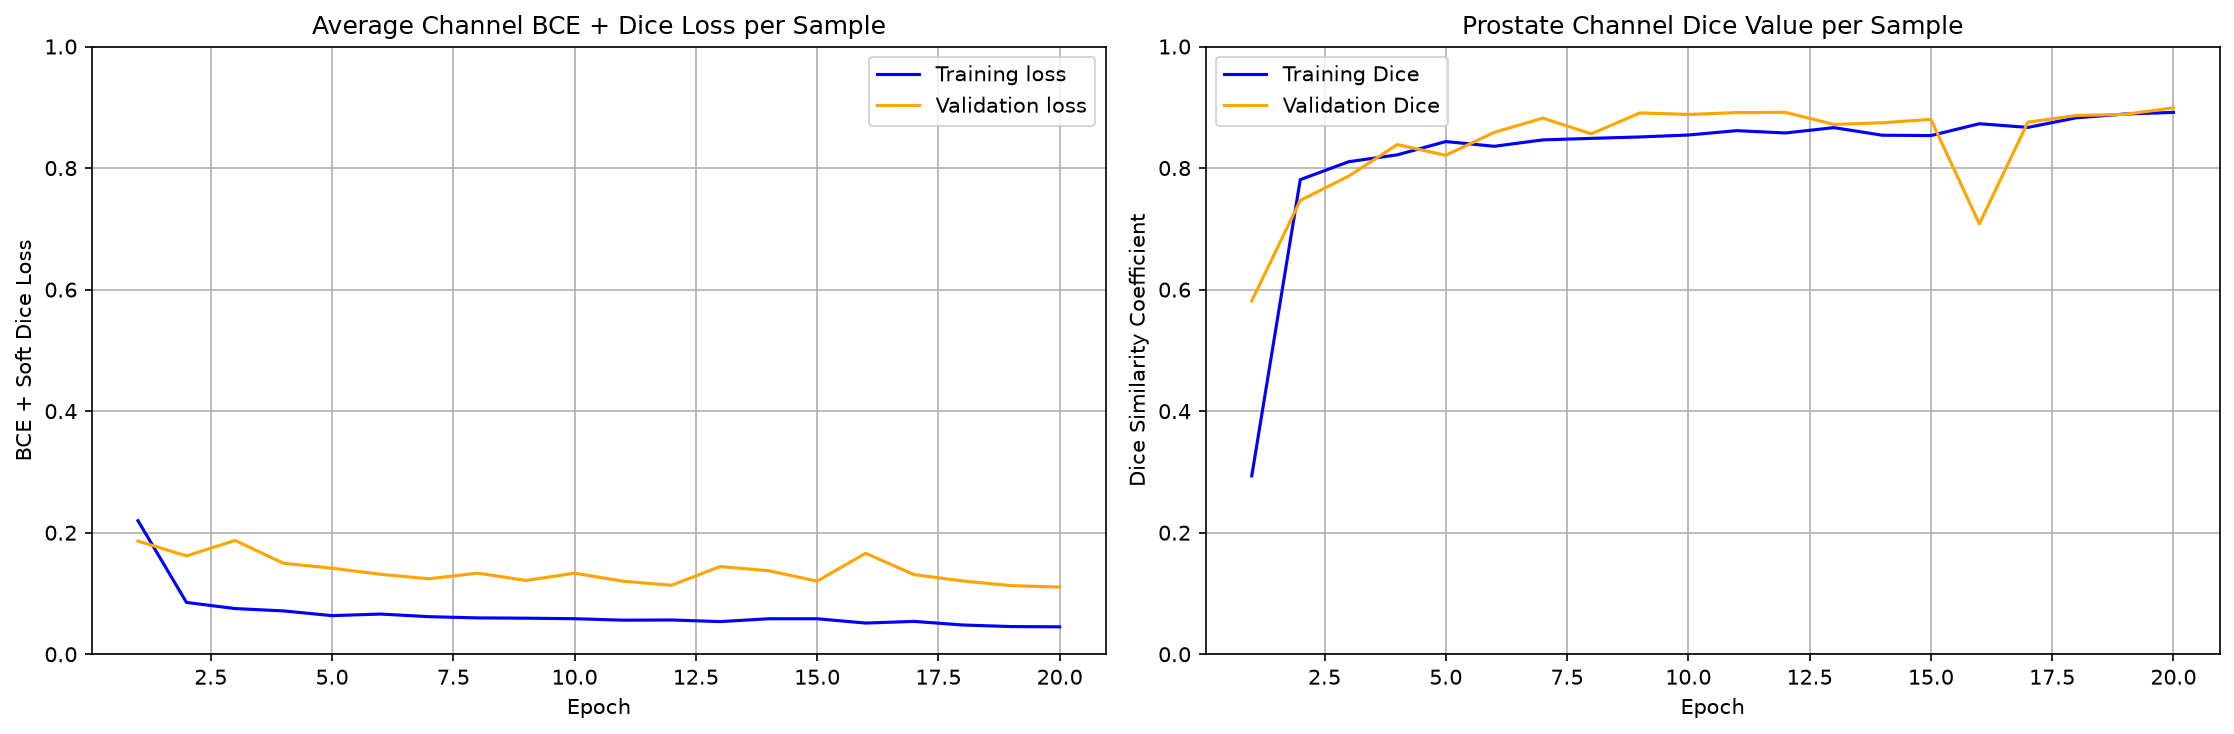
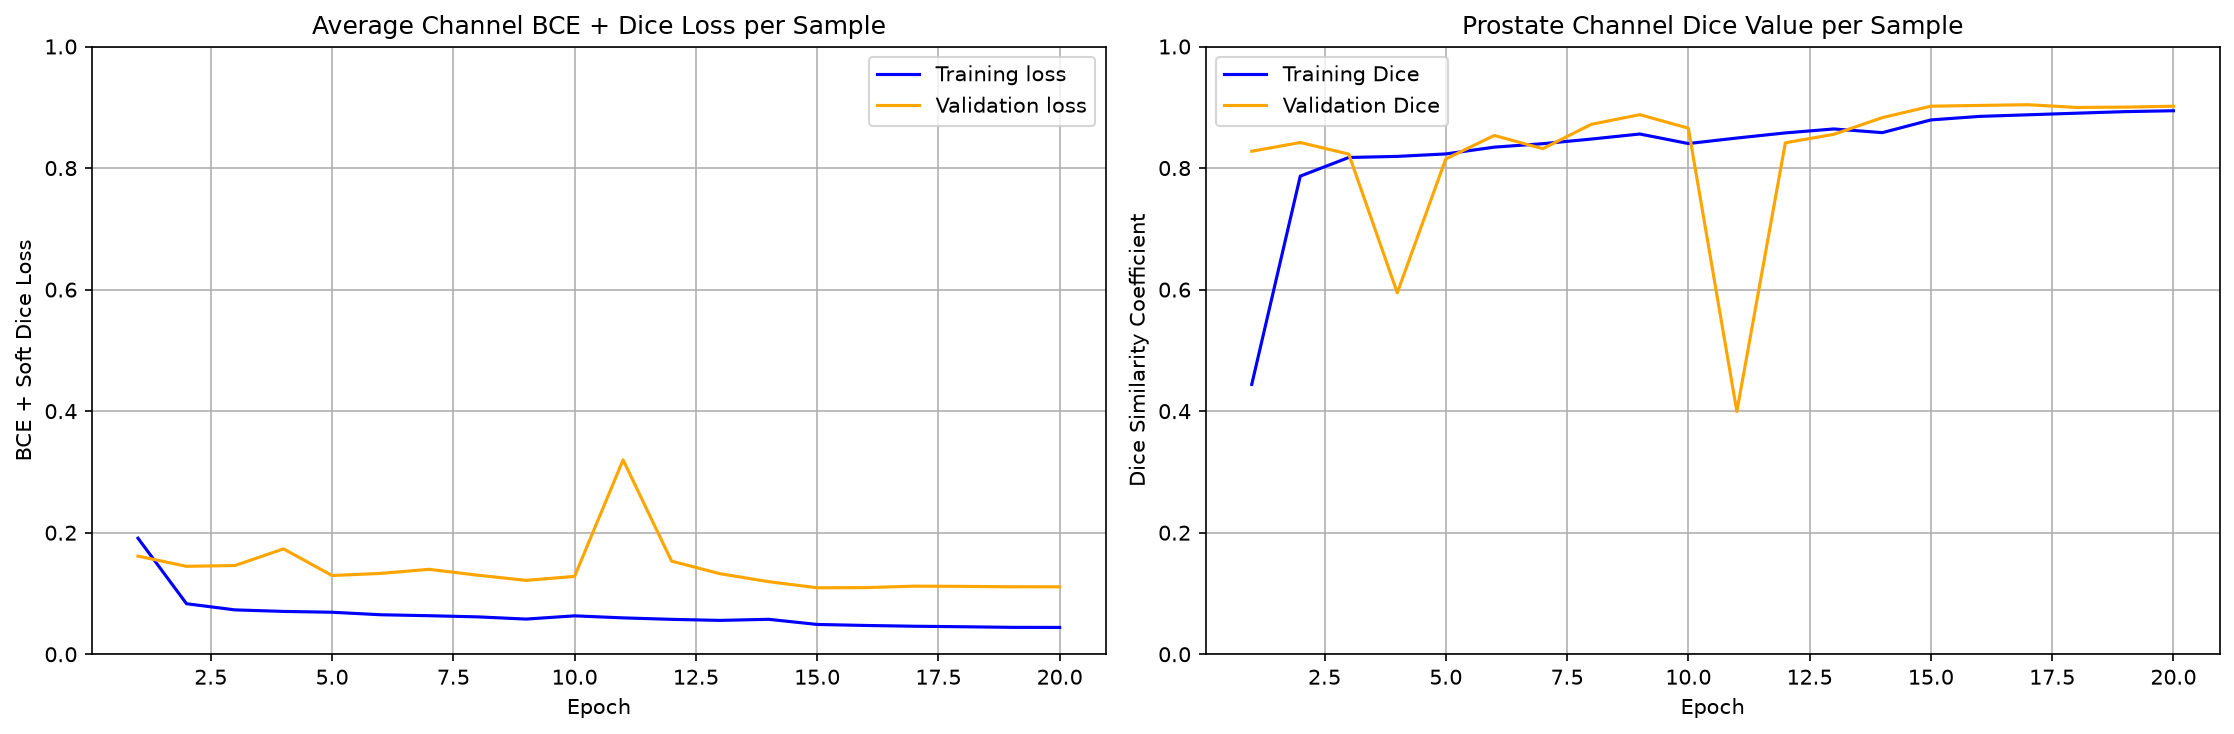
Complete README and track related figures

diff --git a/recognition/UNet_s48831653/README.md b/recognition/UNet_s48831653/README.md
@@ -4,7 +4,9 @@ Data were provided by HipMRI Study for image segmentation - https://arxiv.org/ab
 ## Overview of the Model
 A 2D U-Net and 2D convolutional aggregate network (CAN) have been implemented to aid in the segmentation of the prostate in HipMRI scans for the purpose of targeted radiation therapy. Due to the risks associated with both under- and over-contouring, it is of interest to compare the prostate segmentation accuracy and the resource requirements of both models to determine which is more appropriate for clinical use.
 
-**todo** description of file structure and how to run
+The models can be trained by running train_and_validate(UNet, num_epochs) in train.py, inputting boolean variable 'UNet' to select which model. The model's time, Dice, Intersection Over Union, peak VRAM and number of parameters are reported. A training vs validation loss plot will be saved under "2Dmodel_loss_plot.png", and the optimal model will be saved under "best_2Dmodel.pth" where 'model' is either Unet or CAN.
+
+The models can be tested by running predict(UNet) in predict.py, inputting boolean variable 'UNet' to select which model. All samples in the test set will be evaluated with the optimal model and save the image results in 'model_predictions' as 'model_i.png' where 'model' is either Unet or CAN, and i is the id assigned to the sample. The average Dice and Intersection Over Union values are reported for each channel, and the average evaluation time, peak VRAM.
 
 ### 2D U-Net Explanation and Justification of Structure:
 The 2D U-Net consists of an encoder and decoder, each with 4 convolution blocks. The convolution block contains 2 3x3 convolutions, the first to alter the number of channels, and the second to refine feature extraction. BatchNorm is used after each convolution since the data is dense and processed in batches of 16. As each sample is normalised, convolutions are performed without bias to prevent creations of redundant variables. ReLU is performed in place after each normalisation to reduce memory consumption. For convolution blocks with high out_channel>512, dropout=0.2 is set to reduce overfitting during training.
@@ -13,21 +15,16 @@ Each encoder block is followed by maxPool, reducing the height and width dimensi
 
 The 4 decoder blocks perform a transpose convolution, expanding the sample's height and width by 2, before concatenating the equivalent sample from the encoder leve. This is followed by the convolution block, halving the number of channels. A final 1x1 convolution is performed so that the output has the same number of channels as there are segmentation categories.
 
-**U-Net Model Structure:**
+**2D U-Net Model Structure:**
+
 ![alt text](Figures/UNet.png)
 
 ### 2D CAN Explanation and Justification of Structure:
-The 2D CAN initially performed two 3x3 convolutions to expand the channel size. This is followed by eight dilated convolutions with increasing dilation rates (1, 1, 2, 2, 3, 5, 8, 16), 
+The 2D CAN initially performs two convolution blocks to expand the channel size of all samples in the batch. These blocks are a convolution with kernel_size=3 followed by an instanceNorm to allow for smaller batch sizes if necessary, and then performs a leakyReLU. These convolutions are followed by nine dilated convolution blocks with increasing dilation rates (1, 1, 2, 2, 3, 5, 8, 16, 1). These are similarly constructed to the aforementioned block, however the padding and dilation are defined by the provided dilation variable, to maintain sample dimensions. The initial convolutions, with small dilation factor extract finer details, in the same way as performed in the 2D U-Net. The larger dilations that these are followed by increase the network's field of view, allowing greater context of the image for the model's predictions, while maintaining the sample's dimensions. A final dilation with factor 1 is performed to reintroduce the finer details of the image. Before outputting the results, two convolution blocks are applied, decreasing the channel size to 5, such that each channel contains the model's segmentation predictions.
 
+**2D CAN Model Structure:**
 
-- initial convolution to expand channels to 64
-- dilate convolution uses instance norm to allow smaller batch sizes if necessar, and leaky relu due to sparse data from dilation
-- dilations (1, 1, 2, 2, 3, 5, 8, 16) used to extract a some overall features and focus on the finer details since the prostate is a small component of the HipMRI samples
-- 3x3 conv performed to smooth results and final 1x1 convolution to output with required number of channels as number of categories
-
-
-**todo description of algorithm**
-**todo diagram**
+![alt text](Figures/CAN.png)
 
 ## Dependencies
 This repository was trained and evaluated on the Rangpur HPC cluster with the following dependencies:
@@ -41,9 +38,6 @@ This repository was trained and evaluated on the Rangpur HPC cluster with the fo
 
 The results discussed in this report were produced without setting seed. If desired, the seeds for python, numpy and torch can be set for reproducible results.
 
-## Example inputs, outputs, and visual plots of your algorithm
-**todo**
-
 ## Data Preprocessing
 To prevent data-leakage, all MRI slices belonging to the same patient are strictly assigned to the same data split, as misleading results would be produced if the same anatomy were present across sets. Specifically, training was performed on slices from patients 4 to 35, validation on patients 36 to 39, and testing on patients 40-42.
 
@@ -51,17 +45,17 @@ All MRI image data was normalised upon loading as specified in the project guide
 
 In the construction of PyTorch DataLoaders for this data, the training DataLoader set drop_last=True where the validation and testing loaders didn't to ensure consistent batch sizes for stable normalisation and to avoid overweighting of samples in a smaller batch size. Additionally, the training dataset was assigned a custom TorchVision transformation that included random vertical flipping, slight rotation, and slight scaling with RandomAffine, to reduce overfitting of the data, by training on plausible anatomical variations.
 
+## Training And Validation Process Justification and Results
+Training and Validation is executed with train_and_validate() from train.py, with model type specified by UNet boolean variable. Training is performed with the Adam optimised with weight decay=0.0001 and a ReduceLROnPlateau scheduler with patience=4 and factor=0.1, to reduce overfitting. The loss used for optimisation is a combination of Binary Cross Entropy, weighted at 0.3, and the average per channel dice loss, calculated using the model's probability output. Conversely, validation determines the dice loss and Intersection over Union for each channel, using the binary mask corresponding to the highest predicted channels. These are reported for each epoch, where the model is only saved if the prostate channel's validation dice increases.
 
+Upon completion of all epochs, general performance values are reported. These are displayed below. Additionally, each training and validation epoch records their respective prostate channel loss per sample and average combined BCE and dice loss per channel per sample, which are graphed against epochs. These are also presented below, for each model.
 
-## Training And Validation
-**todo** justify training+validation process
-
-|                                                   | 2D U-Net | 2D CAN |
+|**Training and Validation Performance Results**    | 2D U-Net | 2D CAN |
 | -------- | -------- | -------- |
 | Total Number of Trainable Parmeters               | 31,036,741 | 406,405  |
-| Peak Training/Validation GPU VRAM (GB)            | 3.1845     | 3.5261   |
-| Average Training/Validation Epoch Duration (s)    | 47.284     | 49.729s  |
-| Saved Model's Validation Prostate Dice            | 0.899072   | 0.906043 |
+| Peak Training/Validation GPU VRAM (GB)            | 3.2254     | 3.5261   |
+| Average Training/Validation Epoch Duration (s)    | 47.684     | 49.729s  |
+| Saved Model's Validation Prostate Dice            | 0.904217   | 0.906043 |
 
 ### Training and Validation Loss and Prostate Segmentation Dice per Epoch
 **2D UNet:**
@@ -71,23 +65,73 @@ In the construction of PyTorch DataLoaders for this data, the training DataLoade
 ![alt text](Figures/2DCAN_loss_plot.png)
 
 ## Testing Results
-|                                          | 2D U-Net | 2D CAN |
+Testing involves the evaluation of the model's prediction for each sample. These are saved to a directory corresponding to the model used, and each plot the original MRI image, the ground truth segmentation, the model's predicted segmentation and an error map. The error map compares the ground truth and the predicted segmentations for the prostate class, with true positive results in green, false positives in red and false negatives in blue. The dice and IoU values calculated from the error map for the sample, are reported in the image. An example is given below. After the evaluation of all samples, the model's performance is reported, also provided below.
+
+**Example prediction output image:**
+
+Mask Colour Key: *Prostate=Red, Body Outline/Rectum=Black, Bladder=Teal, Bone=Brown, Body=Green*
+
+Error Map Colour Key: *True Positive = Green, False Positive = Red, False Negative = Blue*
+![alt text](Figures/prediction_image_example.png)
+
+|**Testing Performance Results**           | 2D U-Net | 2D CAN |
 | -------- | -------- | -------- |
 | Peak Testing GPU VRAM (GB)               | 1.1256     | 0.4079   |
-| Average Sample Evaluation Duration (s)   | 0.402137   | 0.397704 |
-| Average Testing Dice                     | 0.882169   | 0.878068 |
-
-**todo**: prediction format, location, justification
+| Average Sample Evaluation Duration (s)   | 0.370087   | 0.367726 |
+| Average Testing Dice                     | 0.874180   | 0.878067 |
 
 ## Discussion of Results
-**todo**
-- data points are all comparable except CAN has significantly less trainable parameters and produces the same results
-- CAN has more stable dice value during training Unet has significant variations betwene training and validation dice
-- only requires 5 epochs versus unet validation loss stabilises at 18 even though training stabilised after 3
+The performance results outlined above, show comparable prostate channel dice scores during validation and testing, with a slightly larger decrease in the 2D U-Net's performance at testing. Similarly, the training times are comparable, with the U-Net being slightly faster to train and slower to evaluate.
 
-- in depth qualitative error autopsies analysing 3-5 representative failure cases from the dataset (diagnosing root triggers + failure modes)
-- actionable engineering recommendation + trade off synthesis for your project manager
+The greatest difference in the models is the number of trainable parameters, which is significantly larger for the U-Net in comparison to the CAN. This likely contributes to the approximately tripled GPU VRAM peak observed during testing. Additionally, observation of the loss plots, suggests the CAN provides stabler training, in comparison to the U-Net. Specifically, the CAN appears to stabilise after epoch 4 with stable and approximately equal Dice scores. The U-Net validation loss stablises after 15 epochs, and has significant variation in prostate channel dice in comparison to the CAN plot.
 
+Upon inspection of the prediction results, transitions between neighbouring slices produced by the CAN are notably smoother compared to the UNet model. Regardless, both models were observed to have the following common failure cases:
+
+### 1. Small prostate false negatives:
+Often occurs in the MRI slices where the prostate initially appears or where a new prostate segment appears separate from a pre-existing section, that combine in a later sample. Due to the small area of these segments, both the 2D U-Net and 2D CAN models, will produce false negatives. This is likely due to the similarities with neighbouring samples with almost identical anatomical structure but with no prostate segmentations. Additionally, these small prostate segmentation cases may only be reflected in the initial 2-3 slices from a scan, where the more general prostate segmentation case would have 10-15 slices to train with, and so, the model is less familiar with predicting small prostate segments. Examples of these false negative predictions are given below, where the false negative segmentations are blue in the error map.
+
+**Example false negative prediction of an initial small prostate segmentations:**
+
+![alt text](Figures/ex_FN_initial_segment.png)
+
+**Example false negative prediction of new small prostate segmentations:**
+
+![alt text](Figures/ex_FN_new_segment.png)
+
+### 2. Small prostate false positives:
+Similarly to failure case 1, this will occur in MRI slices where the prostate is expected to initially appear, or new segments usually appear. This occurs in both the 2D U-Net and 2D CAN models, where the model will predict a small new prostate segment that is not present in the sample. This is likely due to the same reasons as described in failure case 1 above. Examples of these false positive predictions are given below, where the false positive segmentations are red in the error map.
+
+**Example false positive prediction of new small prostate segmentations:**
+
+![alt text](Figures/ex_FP_initial_segment.png)
+
+**Example false positive prediction of new small prostate segmentations:**
+
+![alt text](Figures/ex_FP_new_segment.png)
+
+### 3. False negatives at neighbouring rectum segmentations
+Both the 2D U-Net and 2D CAN will predict false negatives in slices where the rectum segmentation is vanishing and the prostate segmentation appears. This likely occurs as the prostate and rectum segmentations are often in the same position with similar shape, or are closely neighbouring each other. Hence, both convolution models will associate the same features with both the rectum and prostate segmentations, resulting in the false negatives often observed in the predictions. This most commonly appears as a false negative as the vanishing rectum segmentation is more gradual than the prostate segmentation appearance, and therefore has greater representation in the training set. Therefore the model will predict the rectum segmentation over the prostate, resulting in the false negative predictions that have been observed. Two example cases of this are pictured below.
+
+**Example false negative predictions of rectum segmentations:**
+
+![alt text](Figures/ex_FN_rectum1.png)
+
+![alt text](Figures/ex_FN_rectum2.png)
+
+### 4. False positives in the body segment
+Due to the similarity in appearance between the prostate and neighbouring anatomy, such as the bowels. Both models, will sometimes produce false positive prostate predictions instead of the correct body segmentation. An example of this is given below.
+
+**Example false positive prostate prediction of the body:**
+
+![alt text](Figures/ex_FP_body.png)
+
+
+## Verdict
+The 2D CAN is recommended over the 2D U-Net for use in segmenting the prostate in HipMRI images. In comparison to the U-Net, the CAN reported approximately equal channel dice during validation and testing. Additionally, both models had equal training time per epoch with the CAN required significantly less epochs, to reach stability. Finally, the VRAM requirements during evaluation are three times lower for the CAN model.
+
+These results suggest the added context introduced by dilations in the CAN, are more suitable for use in MRI segmentation. Additionally, the CAN was observed to produce more continuous neighbouring slice results. 
+
+The 2D CAN does display evidence of common failure cases, especially for the initial MRI slices involving the prostate and differentiating the prostate segmentation from the rectum. It is recommended that 3D U-Net and 3D CAN models, are implemented to determine if these failure cases can be avoided with volumetric context, and whether the increased time and memory resources are worth 
 
 ## Artificial Intelligence Usage Disclosure:
 Gemini used:
